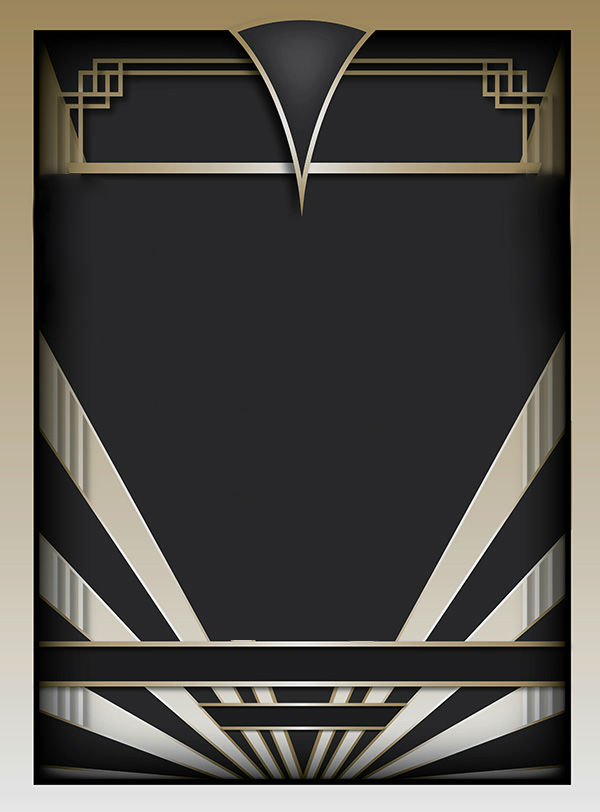
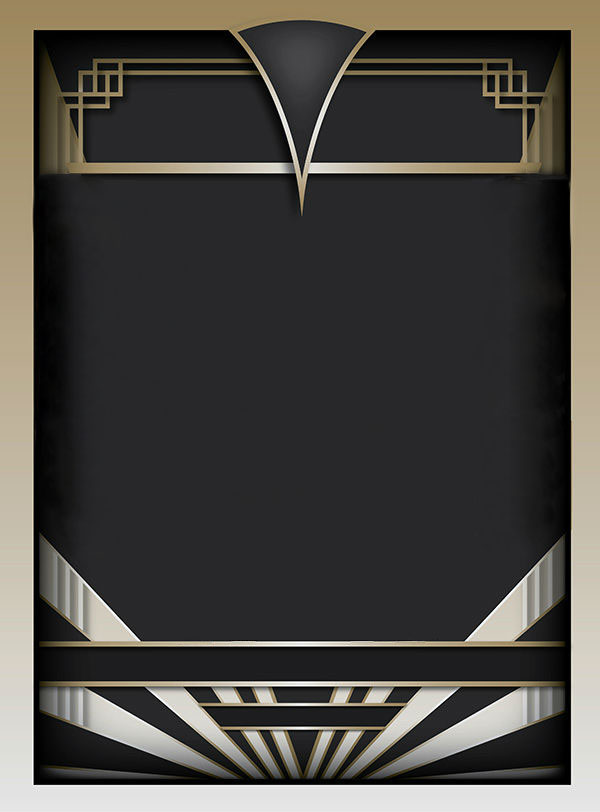
Modified background image, changed wording on confirmation page. Updated registry and event pages.

Changed region(s): [[0.66, 0.4002, 0.96, 0.8005], [0.06, 0.4002, 0.36, 0.8005]]

diff --git a/css/main.css b/css/main.css
@@ -30,7 +30,7 @@ div#main {
   width: 700px;
 }
 div#content {
-  margin: 70px auto;
+  margin: 60px auto;
   overflow: auto;
   width: 420px;
 }
@@ -67,6 +67,16 @@ nav a {
   text-decoration: none;
   padding: 5px;
 }
+/*** * * REGISTRY * * ***/
+section#poem p {
+  margin-bottom: 8px;
+  padding-left: 20px;
+  text-align: left;
+}
+section#poem + p {
+  font-size: 16px;
+  padding-bottom: 3px;
+}
 /*** * * LODGING * * ***/
 table#lodging-info th {
   font-size: 18px;
@@ -94,7 +104,4 @@ div#footer {
 div#footer p {
   color: silver;
   text-align: center;
-}
-/*** * * REDIRECT * * ***/
-p#redirect-msg {
 }

diff --git a/css/portal.css b/css/portal.css
@@ -61,6 +61,20 @@ form#access-portal input[type="submit"] {
   margin-top: 30px;
 }
 
+/*** * * REDIRECT * * ***/
+div#redirect-msg {
+  color: silver;
+  margin: 201px auto;
+  padding-top: 20px;
+  width: 350px;
+}
+div#redirect-msg span {
+  color: coral;
+}
+div#redirect-msg p {
+  padding-bottom: 5px;
+}
+
 /*** * * DOCUMENT FOOTER * * ***/
 div#footer {
   text-align: center;

diff --git a/home.php b/home.php
@@ -1,7 +1,6 @@
 <?php
   session_start();
-  include("./includes/header-main.php");
-
+  require_once("libs/global-functions.php");
   if(isset($_POST['login'])) {
     $_SESSION['user'] = $_POST['login'];
 
@@ -13,6 +12,7 @@
     $results = userLogin($dbh, $_POST['login']);        
     # If credentials are authorized
     if (strtoupper($results) == strtoupper($_POST['login'])) {
+      include("./includes/header-main.php");
       # Serve user account
       $page = (isset($_GET['page'])) ? $_GET['page'] : 0;  
        
@@ -25,6 +25,7 @@
     }
     # If access is denied
     else {
+      include("./includes/header-portal.php");
       # Close the connection and serve the redirect
       $dbh = null; 
       include("views/redirect.php");
@@ -32,6 +33,7 @@
     }
   } 
   else if(isset($_SESSION['user'])) {
+    include("./includes/header-main.php");
     $page = (isset($_GET['page'])) ? $_GET['page'] : 0;  
  
     # If $page has a value

diff --git a/views/redirect.php b/views/redirect.php
@@ -1,8 +1,10 @@
 <body onload="countdown();">
   <div id="main">
     <div id="content">
-      <p id="redirect-msg">
-        An error has occurred. Redirecting in <span id="countdown"><span> seconds.</p>
+      <div id="redirect-msg">
+        <p>Whoops, It looks like something went wrong!</p>
+        <p>Hmm. Give us about <a href="http://www.dianaandscot.com"><span id="countdown"></span></a> seconds and we'll get you back to the login page so you can try again.</p>
+      </div>
     </div>
   </div>
 

diff --git a/views/registry.php b/views/registry.php
@@ -27,7 +27,10 @@
            In our long winding journey, as new husband and wife!</p>
       </section>
 
-      <p>Buuuuut, for those that insist... check back often, we will try to have a registry up soon :)</p>
+      <p>Buuuuut, for those that insist...</p>
+      <ol>
+        <li><a href="http://www.surlatable.com/registry/giftRegistryList.jsp?id=2001147294726">Sur la Table</a></li>
+      </ol>
     </div>
   </div>
 

diff --git a/views/confirmation.php b/views/confirmation.php
@@ -18,8 +18,9 @@
     
     ?>
     <div id="content">
-      <h2>Confirmation Page</h2>
-      <p>Redirect.... </p>
+      <h2>Success!</h2>
+      <p>We've gone ahead and updated our database, but feel free to make any changes as you see fit before the deadline.</p>
+      <p>Diana and I are greatly looking forward to having you join us for our special day! See you there.</p>
     </div>
   </div>
 

diff --git a/libs/global-functions.php b/libs/global-functions.php
@@ -67,7 +67,7 @@
     $firstname  = isset($arg[1]) ? $arg[1] : null;
     $lastname   = isset($arg[2]) ? $arg[2] : null;
     $foodoption = isset($arg[3]) ? $arg[3] : null;
-
+    echo "<pre>" .print_r($arg, true). "</pre>";
     try {
       $sql = "UPDATE
                 person
